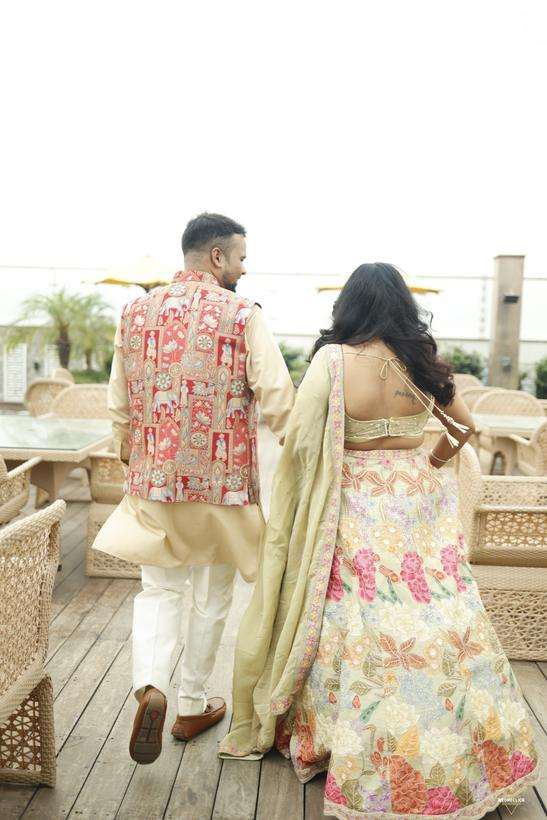
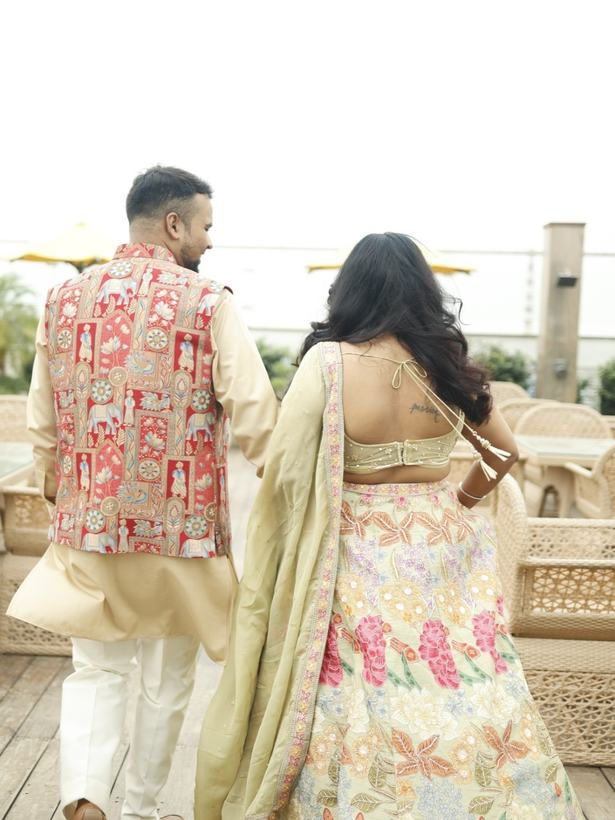
RSVP: station drop for train departures; centred gallery thumbnails
- Departing by train asks whether a drop at the station is needed; the
  backend (version 10) stores it in a new 'Station drop' column on the
  groom side's tab only
- Gallery thumbnails are cropped around the couple so they sit centred
  in the arch

diff --git a/app.js b/app.js
@@ -538,17 +538,17 @@
     if (w) { w.classList.remove("has-err"); var n = w.querySelector(".field-err"); if (n) n.remove(); e.target.removeAttribute("aria-invalid"); showError(""); }
   });
 
-  // Ask about a station pickup only when arriving by train.
-  (function () {
-    var q = document.getElementById("pickup-q");
+  // Ask about a station pickup (arrival) or drop (departure) only for train travel.
+  [["arriveBy", "pickup-q", "pickup"], ["departBy", "drop-q", "drop"]].forEach(function (c) {
+    var q = document.getElementById(c[1]);
     function sync() {
-      var train = (form.querySelector('input[name="arriveBy"]:checked') || {}).value === "Train";
+      var train = (form.querySelector('input[name="' + c[0] + '"]:checked') || {}).value === "Train";
       q.hidden = !train;
-      if (!train) form.querySelectorAll('input[name="pickup"]').forEach(function (r) { r.checked = false; });
+      if (!train) form.querySelectorAll('input[name="' + c[2] + '"]').forEach(function (r) { r.checked = false; });
     }
-    form.querySelectorAll('input[name="arriveBy"]').forEach(function (r) { r.addEventListener("change", sync); });
+    form.querySelectorAll('input[name="' + c[0] + '"]').forEach(function (r) { r.addEventListener("change", sync); });
     sync();
-  })();
+  });
 
   function collect() {
     var fd = new FormData(form);
@@ -565,6 +565,7 @@
       ["pickup", "Please tell us whether you need a pickup from the railway station.", form.querySelector('input[name="pickup"]'), function () { return fd.get("arriveBy") === "Train"; }],
       ["departBy", "Please tell us whether you are leaving by road or train.", form.querySelector('input[name="departBy"]')],
       ["departTime", "Please add your departure time.", document.getElementById("rsvp-depart-time")],
+      ["drop", "Please tell us whether you need a drop at the railway station.", form.querySelector('input[name="drop"]'), function () { return fd.get("departBy") === "Train"; }],
       ["driver", "Please tell us whether a driver is travelling with you.", form.querySelector('input[name="driver"]')]
     ];
     for (var c = 0; c < checks.length; c++) {
@@ -573,6 +574,7 @@
     }
     data.arriveBy = fd.get("arriveBy"); data.arriveDate = fd.get("arriveDate"); data.arriveTime = fd.get("arriveTime");
     data.pickup = data.arriveBy === "Train" ? fd.get("pickup") : "";
+    data.drop = fd.get("departBy") === "Train" ? fd.get("drop") : "";
     data.departBy = fd.get("departBy"); data.departDate = fd.get("departDate"); data.departTime = fd.get("departTime");
     data.driver = fd.get("driver");
 
@@ -659,6 +661,7 @@
       li("Arriving:", d.arriveDate + ", " + fmtTime(d.arriveTime) + " by " + d.arriveBy.toLowerCase());
       if (d.pickup) li("Station pickup:", d.pickup === "Yes" ? "Yes, please" : "No, thanks");
       li("Leaving:", d.departDate + ", " + fmtTime(d.departTime) + " by " + d.departBy.toLowerCase());
+      if (d.drop) li("Station drop:", d.drop === "Yes" ? "Yes, please" : "No, thanks");
       li("Driver:", d.driver);
       var up = got.guests.filter(function (g) { return g.file; }).length;
       li("ID proofs:", up === got.guests.length ? "all " + up + " uploaded" : up + " of " + got.guests.length + " uploaded");

diff --git a/index.html b/index.html
@@ -1302,6 +1302,13 @@
                 <input class="fld" id="rsvp-depart-time" name="departTime" type="time" step="900" />
               </div>
             </div>
+            <div class="pickup-q" id="drop-q" hidden>
+              <div class="sublbl" id="drop-lbl">Drop required at the railway station?</div>
+              <div class="choices" role="radiogroup" aria-labelledby="drop-lbl">
+              <label class="chip"><input type="radio" name="drop" value="Yes" /><span class="tick"><svg viewBox="0 0 12 10"><path d="M1 5l3.5 3.5L11 1" fill="none" stroke="#fff" stroke-width="2" /></svg></span><span class="c-main">Yes, please</span></label>
+              <label class="chip"><input type="radio" name="drop" value="No" /><span class="tick"><svg viewBox="0 0 12 10"><path d="M1 5l3.5 3.5L11 1" fill="none" stroke="#fff" stroke-width="2" /></svg></span><span class="c-main">No, thanks</span></label>
+              </div>
+            </div>
           </fieldset>
           <p class="travel-note"><svg viewBox="0 0 24 24" aria-hidden="true"><path d="M4 15V6a3 3 0 0 1 3-3h10a3 3 0 0 1 3 3v9a3 3 0 0 1-3 3H7a3 3 0 0 1-3-3Zm0-4h16M8 21l2-3m6 3-2-3" fill="none" stroke="currentColor" stroke-width="1.6" stroke-linecap="round" stroke-linejoin="round"/><circle cx="8" cy="14.5" r="1" fill="currentColor"/><circle cx="16" cy="14.5" r="1" fill="currentColor"/></svg><span>Coming by train? We will arrange pick-up and drop from <b>Kathgodam railway station</b>.</span></p>
           <fieldset>
@@ -1383,6 +1390,6 @@
   <a href="#rsvp">RSVP</a>
 </nav>
 
-<script src="app.js?v=5e506a09"></script>
+<script src="app.js?v=5ca7585c"></script>
 </body>
 </html>

diff --git a/README.md b/README.md
@@ -56,7 +56,7 @@ All of these are at the top of `app.js`:
 
 Every field is required except the ID proofs. A guest who declines gives only name and phone. A guest
 who attends also gives the guest count, arrival and departure (road or train, date,
-time, and for train arrivals whether they need a pickup from the station), whether a driver is coming, and **an optional ID proof per guest** (Aadhaar, driving
+time, and for train travel whether they need a pickup from or drop at the station), whether a driver is coming, and **an optional ID proof per guest** (Aadhaar, driving
 licence or passport, as a photo or PDF up to 5 MB). Phone photos are shrunk to a
 1800px JPEG in the browser before upload.
 
